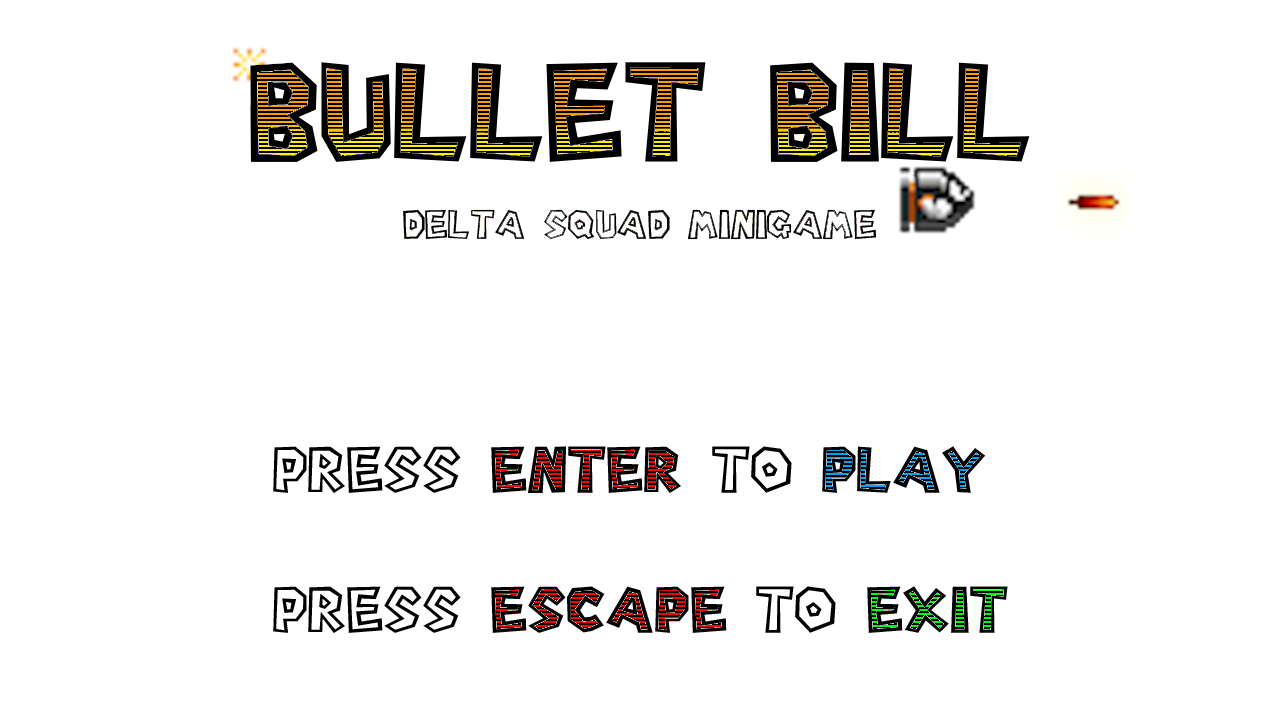
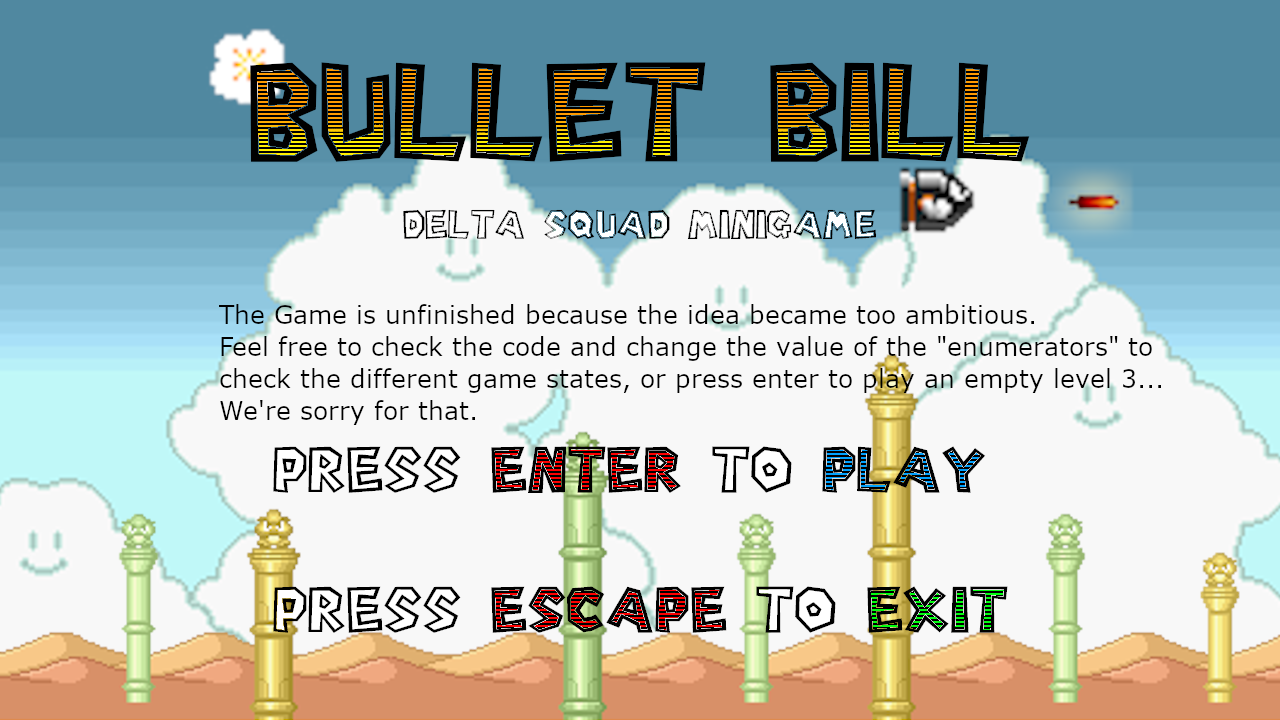
Unfinished Game, Final Comit  :(
Did not have time to finish the game, so I guess this have to be its final comit

diff --git a/Source/MainFunctionsHeader.h b/Source/MainFunctionsHeader.h
@@ -54,7 +54,7 @@ void Start()
 	state.background1 = SDL_CreateTextureFromSurface(state.renderer, IMG_Load("Assets/clouds.png"));
 	state.background2 = SDL_CreateTextureFromSurface(state.renderer, IMG_Load("Assets/cave.png"));
 	state.background3 = SDL_CreateTextureFromSurface(state.renderer, IMG_Load("Assets/castle.png"));
-	state.title = SDL_CreateTextureFromSurface(state.renderer, IMG_Load("Assets/WholeTitleScreen.png"));
+	state.title = SDL_CreateTextureFromSurface(state.renderer, IMG_Load("Assets/TitleScreen1.png"));
 
 	state.player = SDL_CreateTextureFromSurface(state.renderer, IMG_Load("Assets/GeneralSpriteSheet.png"));
 	state.shot = SDL_CreateTextureFromSurface(state.renderer, IMG_Load("Assets/GeneralSpriteSheet.png"));
@@ -388,10 +388,11 @@ void Draw()
 
 	// Draw background texture (two times for scrolling effect)
 	// NOTE: rec rectangle is being reused for next draws
-	SDL_Rect rec = { -state.scroll, 0, state.background_width, SCREEN_HEIGHT };
-	SDL_Rect rec2 = { state.bullet.playerFrame_x, state.bullet.playerFrame_y, state.bullet.playerFrame_w, state.bullet.playerFrame_h };
+	//SDL_Rect rec = { -state.scroll, 0, state.background_width, SCREEN_HEIGHT };
+	//SDL_Rect rec2 = { state.bullet.playerFrame_x, state.bullet.playerFrame_y, state.bullet.playerFrame_w, state.bullet.playerFrame_h };
 
-	
+	SDL_Rect rec {0, 0, 1280, 720};
+	SDL_Rect rec2 { 0, 0, 1280, 720 };
 
 	
 	
@@ -399,12 +400,14 @@ void Draw()
 	{
 		case state.TitleScreen:
 		{
+			
 			if (state.GeneralFPS < 3)
 			{
 				Mix_PlayMusic(state.titleScreen, -1);
 
 				Mix_HookMusicFinished(NULL);
 			}
+			SDL_RenderCopy(state.renderer, state.title, &rec2, &rec);
 
 			TitleScreenDrawDefinition(state, rec, rec2);
 
@@ -412,14 +415,16 @@ void Draw()
 			{
 				Mix_HaltMusic();
 				state.GeneralFPS = 0;
-				state.level = state.Level_2;
+				state.level = state.Level_3;
 				state.scene = state.LevelScenes;
 			}
+			
 			break;
 		}
 		case state.LevelScenes:
 		{
-			
+			rec = { -state.scroll, 0, state.background_width, SCREEN_HEIGHT };
+			rec2 = { state.bullet.playerFrame_x, state.bullet.playerFrame_y, state.bullet.playerFrame_w, state.bullet.playerFrame_h };
 
 			switch (state.level)
 			{
@@ -441,7 +446,6 @@ void Draw()
 				case state.Level_2:
 				{
 					state.castleBoss.bossLife = 4; //Does not make much sense but it has to be here
-					state.GreyGoomba_Entity.entityLife = 1;
 
 					if (state.GeneralFPS < 3)
 					{
@@ -452,17 +456,10 @@ void Draw()
 
 					Level_2DrawDefinition(state, rec, rec2);
 
-
+					
 					DrawPlayerDefinition(state, rec, rec2); //Define the rectangles and the SDL drawing functions to draw the player and its different frames, effects, etc
 
-					if (state.GeneralFPS >= 140) // An example of how to jump from cases
-					{
-						Mix_HaltMusic();
-						state.GeneralFPS = 0;
-						state.level = state.Level_3;
-						
-						
-					}
+					
 					break;
 				}
 				case state.Level_3:

diff --git a/Source/Entity.h b/Source/Entity.h
@@ -472,27 +472,14 @@ void Hammer_DrawDefinition(GlobalState& state, SDL_Rect rec, SDL_Rect rec2)
 
 void CheckPoint_MechanicsDefinition(GlobalState& state, int x, int y)
 {
-	if ((state.CheckPoint_Entity.entityFPS / 5) % 2 == 0)
-	{
-		state.CheckPoint_Entity.entityFrame_x = 76; state.CheckPoint_Entity.entityFrame_y = 280; state.CheckPoint_Entity.entityFrame_w = 16; state.CheckPoint_Entity.entityFrame_h = 16;
-
-		state.CheckPoint_Entity.entity_x = x; state.CheckPoint_Entity.entity_y--;
-	}
-	else
-	{
-		state.CheckPoint_Entity.entityFrame_x = 95; state.CheckPoint_Entity.entityFrame_y = 280; state.CheckPoint_Entity.entityFrame_w = 16; state.CheckPoint_Entity.entityFrame_h = 16;
-
-		state.CheckPoint_Entity.entity_x = x; state.CheckPoint_Entity.entity_y--;
-	}
+	
 
 }
 
 void CheckPoint_DrawDefinition(GlobalState& state, SDL_Rect rec, SDL_Rect rec2)
 {
-	rec.x = state.CheckPoint_Entity.entity_x; rec.y = state.CheckPoint_Entity.entity_y; rec.w = state.CheckPoint_Entity.entityFrame_w * 4; rec.h = state.CheckPoint_Entity.entity_h * 4;
-	rec2.x = state.CheckPoint_Entity.entityFrame_x; rec2.y = state.CheckPoint_Entity.entityFrame_y; rec2.w = state.CheckPoint_Entity.entityFrame_w; rec2.h = state.CheckPoint_Entity.entityFrame_h;
-
+	
 	SDL_RenderCopy(state.renderer, state.CheckPoint, &rec2, &rec);
 }
 
-//---------------------------------------------------------------------
+//---------------------------------------------------------------------   UNFINISHED...

diff --git a/Source/Player.h b/Source/Player.h
@@ -4,11 +4,12 @@
 #include "MainFunctionsHeader.h"
 #include"Entity.h"
 
+// UNFINISHED !!! Mising thing todo: Implement case when the player dies and make a full restructuring due to that
 
 void PlayerMechanicsDefinition(GlobalState &state)
 {
 	state.bullet.PlayerFPS++;
-	// L2: DONE 7: Move the ship with arrow keys
+	
 	if (state.bullet.PlayerFPS <= 5)
 	{
 		state.bullet.playerFrame_x = 8;

diff --git a/Source/MainHeader.h b/Source/MainHeader.h
@@ -79,7 +79,7 @@ struct GlobalState
 		TitleScreen = 0,
 		LevelScenes
 	};
-	GameScene scene = LevelScenes;
+	GameScene scene = TitleScreen;
 
 	enum Levels
 	{
@@ -91,7 +91,7 @@ struct GlobalState
 		LevelEnd,
 		FinalLevelEnd,
 	};
-	Levels level = Level_3;
+	Levels level = OtherScene;
 
 	// Window and renderer
 	SDL_Window* window;

diff --git a/Source/Main.cpp b/Source/Main.cpp
@@ -10,7 +10,7 @@ static void DrawLine(int x1, int y1, int x2, int y2, SDL_Color color);
 static void DrawCircle(int x, int y, int radius, SDL_Color color);
 
 
-
+// THE GAME IS UNFINISHED, SORRY FOR THAT...
 
 // Main Entry point
 // -------------------------------------------------------------------------
